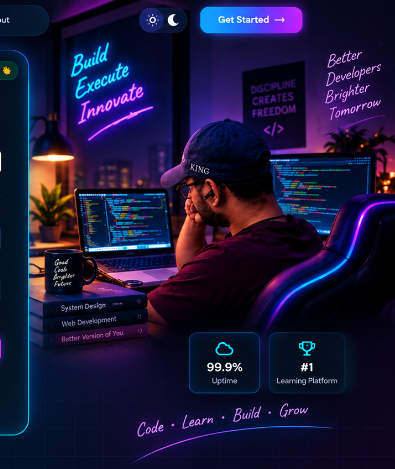
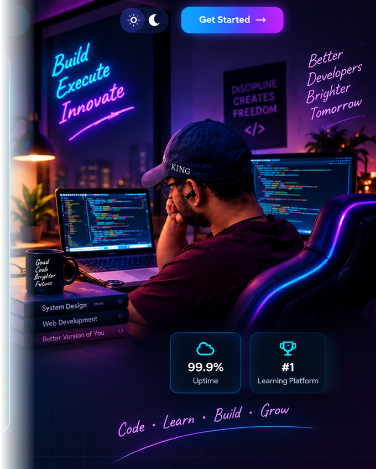
fix: match 1:1 exact reference image layout and artwork without duplicate

diff --git a/kartikterminal-backend/src/main/resources/static/login.html b/kartikterminal-backend/src/main/resources/static/login.html
@@ -390,26 +390,26 @@ body {
   position: relative;
   width: 100%;
   max-width: 440px;
-  border-radius: 26px;
-  padding: 2px;
-  background: linear-gradient(135deg, #00f2fe 0%, #3b82f6 30%, #a855f7 70%, #ec4899 100%);
+  border-radius: 24px;
+  padding: 1.5px;
+  background: linear-gradient(135deg, #00f2fe 0%, #0077ff 40%, #7000ff 80%, #00f2fe 100%);
   box-shadow: 
-    0 0 35px -5px rgba(0, 242, 254, 0.4),
-    0 0 45px -8px rgba(168, 85, 247, 0.4),
-    0 25px 50px -12px rgba(0, 0, 0, 0.9);
+    0 0 30px rgba(0, 242, 254, 0.25),
+    0 0 45px rgba(112, 0, 255, 0.2),
+    0 25px 50px -10px rgba(0, 0, 0, 0.95);
   transition: all 0.3s ease;
 }
 .auth-card-neon-wrapper:hover {
   box-shadow: 
-    0 0 45px -2px rgba(0, 242, 254, 0.55),
-    0 0 55px -4px rgba(236, 72, 153, 0.5),
-    0 30px 60px -10px rgba(0, 0, 0, 0.95);
+    0 0 40px rgba(0, 242, 254, 0.4),
+    0 0 55px rgba(112, 0, 255, 0.35),
+    0 30px 60px -10px rgba(0, 0, 0, 0.98);
 }
 
 .auth-card-inner {
   width: 100%;
-  background: rgba(8, 13, 27, 0.94);
-  border-radius: 24px;
+  background: rgba(6, 12, 26, 0.95);
+  border-radius: 23px;
   padding: 28px 28px 22px;
   backdrop-filter: blur(28px);
   position: relative;
@@ -1308,11 +1308,6 @@ body {
   </section>
 
 </main>
-
-<!-- Bottom Center Tagline -->
-<div class="bottom-tagline-bar">
-  IDEAS TODAY &nbsp;|&nbsp; IMPACT TOMORROW
-</div>
 
 <!-- =============================================================
      INTERACTIVE MODALS
